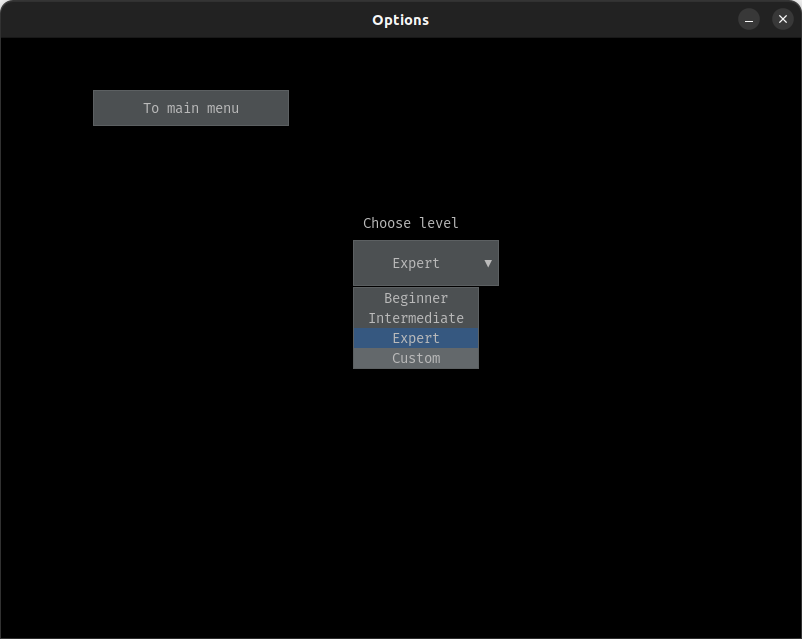
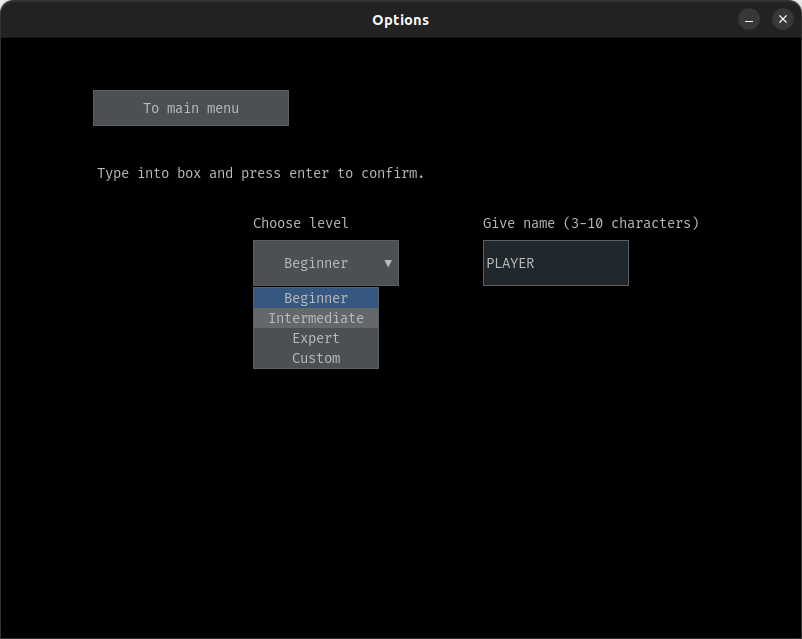
Update kayttoohje.md

diff --git a/dokumentaatio/kayttoohje.md b/dokumentaatio/kayttoohje.md
@@ -2,6 +2,11 @@
 
 Lataa sovelluksen viimeisimmän releasen lähdekoodi.
 
+### Konfigurointi
+
+Tulosten tallennukseen käytettävän tiedoston nimeä voi muokata hakemiston .env-tiedostossa. Tiedosto luodaan automaattisesti data-hakemistoon, jos sitä ei vielä ole. Tiedosto on muotoa: \
+```DB_FILENAME=database.sqlite```
+
 ### Sovelluksen käynnistäminen
 
 1. Lataamisen jälkeen siirry juuri luotuun hakemistoon ja asenna riippuvuudet komennolla ```poetry install```
@@ -18,11 +23,16 @@ Käyttäjä voi valita haluamansa toiminnon klikkaamalla hiiren oikeaa painikett
 
 ### Pelin pelaaminen(Play)
 
-![Kuva peli-ikkunasta](https://github.com/xelmas/ot-miinaharava/blob/main/dokumentaatio/kuvat/kayttoohje_playing.png)
+![Kuva peli-ikkunasta](https://github.com/xelmas/ot-miinaharava/blob/main/dokumentaatio/kuvat/kayttoohje_playing_clean.png)
 
-Sovellus avaa uuden ikkunan, jossa on miinaharavapeli. Peliä pelataan siten, että hiiren oikealla klikatessa ruutu avautuu ja vasemmalla klikatessa ruutu liputetaan. Jo liputettua tai avattua ruutua ei voi liputtaa.
+Sovellus avaa uuden ikkunan, jossa on miinaharavapeli. Peliä pelataan siten, että hiiren vasemmalla klikatessa ruutu avautuu ja oikealla klikatessa ruutu liputetaan. Jo liputettua tai avattua ruutua ei voi liputtaa.
 
-![Kuva pelin päättymisestä](https://github.com/xelmas/ot-miinaharava/blob/main/dokumentaatio/kuvat/kayttoohje_game_end.png)
+![Kuva peli-ikkunasta liput](https://github.com/xelmas/ot-miinaharava/blob/main/dokumentaatio/kuvat/kayttoohje_playing.png)
+
+Peli-ikkunassa näkyy oikealla jäljellä olevien miinojen lukumäärä, joka vähenee sitä mukaa kun ruutuja liputetaan.
+
+![Kuva pelin päättymisestä voitto](https://github.com/xelmas/ot-miinaharava/blob/main/dokumentaatio/kuvat/kayttoohje_game_end_won.png)
+![Kuva pelin päättymisestä häviö](https://github.com/xelmas/ot-miinaharava/blob/main/dokumentaatio/kuvat/kayttoohje_game_end_lost.png)
 
 Pelin päättyessä näytetään kaikkien miinojen sijainti ja näytetään käyttäjälle peliruudun alareunassa oliko peli voitto vai häviö.
 
@@ -30,15 +40,23 @@ Pelin päättyessä näytetään kaikkien miinojen sijainti ja näytetään käy
 
 ![Kuva asetuksista](https://github.com/xelmas/ot-miinaharava/blob/main/dokumentaatio/kuvat/kayttoohje_options.png)
 
-Sovellus avaa pudotusvalikon, jossa on vaihtoehtoina valittavina vaikeustasoina Beginner, Intermediate, Expert tai Custom. Mikäli käyttäjä valitsee vaihtoehdon Custom, näytölle ilmestyy kentät, joihin käyttäjä voi syöttää haluamansa parametrit pelin leveydelle, korkeudelle ja miinojen lukumäärälle.
+Sovellus avaa pudotusvalikon, jossa on vaihtoehtoina valittavina vaikeustasoina Beginner, Intermediate, Expert tai Custom. Käyttäjänimen voi muuttaa syöttämällä haluttu nimi (oltava 3-10 merkkiä) ja painamalla Enter.
 
 ![Kuva Custom-vaihtoehdon valinnasta](https://github.com/xelmas/ot-miinaharava/blob/main/dokumentaatio/kuvat/kayttoohje_options_custom.png)
 
-Syötteeksi hyväksytään vain positiivisia nollaa suurempia kokonaislukuja, jonka jälkeen käyttäjä vahvistaa syötteen painamalla Enter-näppäintä.
+Mikäli käyttäjä valitsee pudotusvalikosta vaihtoehdon Custom, näytölle ilmestyy kentät, joihin voidaan syöttää halutut parametrit pelin leveydelle, korkeudelle ja miinojen lukumäärälle. Pelin korkeuden ja leveyden on oltava väliltä 5-32 ja miinojen lukumäärän väliltä 2-300. Valinta vahvistetaan painamalla Enter-näppäintä (huom. tehtävä jokaisen parametrin kohdalla erikseen). 
+
+Jos syötetyt arvot eivät vastaa annettuja ehtoja, käytetään oletusarvoina lukua 15 kaikilla parametreilla.
 
 ### Tilastojen tarkastelu (Leaderboard)
 
-Sovellus näyttää pelattujen voittojen tilastot
+Sovellus näyttää pelattujen voittojen tilastot.
+![Kuva tilastosta](https://github.com/xelmas/ot-miinaharava/blob/main/dokumentaatio/kuvat/kayttoohje_leaderboard.png)
+
+Tilastonäkymässä näkyy tuloksittain pelaajan nimi, pelattu vaikeustaso, peliin kulunut aika sekunteina ja käytetyt siirrot. Pelattu vaikeustaso on annettu muodossa w, h, m, missä \
+    w on pelin leveys \
+    h on pelin korkeus \
+    m on miinojen lukumäärä.
 
 ### Sovelluksen sulkeminen (Quit)
 
